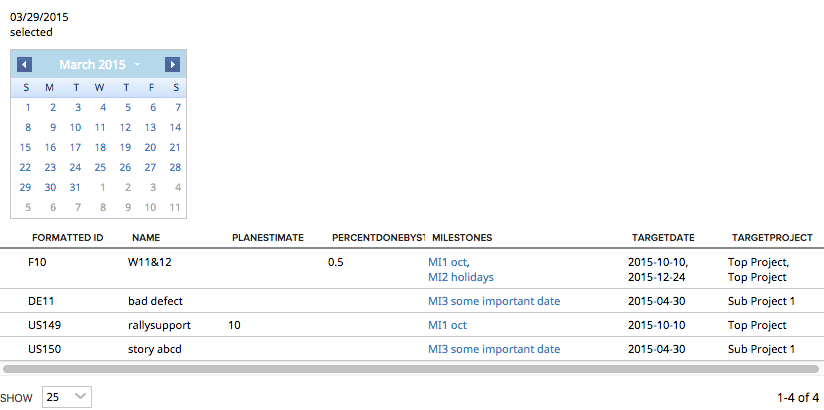
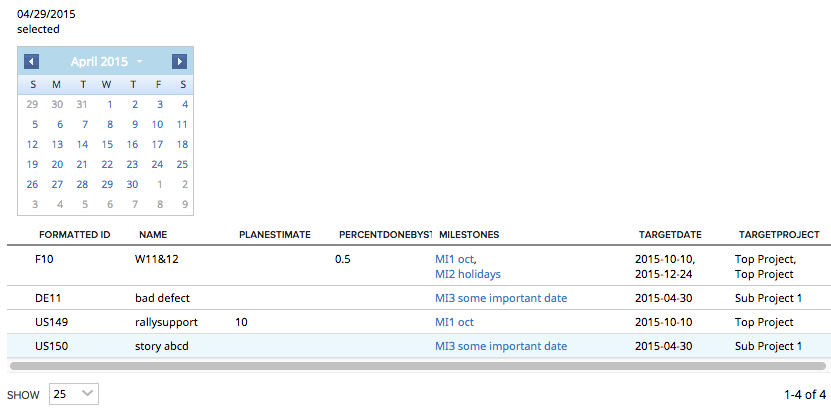
updated Readme

diff --git a/deploy/App-external.html b/deploy/App-external.html
@@ -7,7 +7,7 @@
 
     <script type="text/javascript">
         Rally.onReady(function () {
-                Ext.define("CustomApp",{extend:"Rally.app.App",targetDate:null,launch:function(){this.add({xtype:"component",itemId:"datepick",html:"pick a date to filter Milestones by TargetDate greater than selected date:",width:400,margin:10},{xtype:"rallydatepicker",showToday:!1,contentEl:Ext.ComponentQuery.query("#datepick")[0],margin:10,handler:function(picker,date){this.down("#tc")&&Ext.getCmp("testcases-string").destroy(),this._onDateSelected(date)},scope:this},{xtype:"container",itemId:"gridContainer"})},_onDateSelected:function(date){targetDate=date;var formattedDate=Rally.util.DateTime.formatWithDefault(date,this.getContext());Ext.ComponentQuery.query("#datepick")[0].update(formattedDate+"<br /> selected"),Ext.create("Rally.data.wsapi.artifact.Store",{models:["UserStory","Defect","PortfolioItem/Feature"],fetch:["Name","FormattedID","PlanEstimate","PercentDoneByStoryCount","Milestones"],autoLoad:!0,filters:[{property:"Milestones.ObjectID",operator:"!=",value:null}],listeners:{load:this._onDataLoaded,scope:this}})},_onDataLoaded:function(store,data){console.log("targetDate",Rally.util.DateTime.toIsoString(targetDate,!0));var workItems=[],pendingWorkitems=data.length;_.each(data,function(workitem){var o={FormattedID:workitem.get("FormattedID"),Name:workitem.get("Name"),PlanEstimate:workitem.get("PlanEstimate"),PercentDoneByStoryCount:workitem.get("PercentDoneByStoryCount"),_ref:workitem.get("_ref"),Milestones:[]},milestones=workitem.getCollection("Milestones",{fetch:["Name","FormattedID","TargetDate","TargetProject"],filters:[{property:"TargetDate",operator:">",value:Rally.util.DateTime.toIsoString(targetDate,!0)}]});milestones.load({callback:function(records,operation,success){_.each(records,function(milestone){o.Milestones.push({_ref:milestone.get("_ref"),FormattedID:milestone.get("FormattedID"),Name:milestone.get("Name"),TargetDate:milestone.get("TargetDate"),TargetProject:milestone.get("TargetProject")._refObjectName})},this),--pendingWorkitems,0===pendingWorkitems&&this._makeGrid(workItems)},scope:this}),console.log("o.Milestones.length",o.Milestones.length),workItems.push(o)},this)},_makeGrid:function(workItems){this.down("rallygrid")&&Ext.ComponentQuery.query("#gridContainer")[0].remove(Ext.ComponentQuery.query("#workItemsGrid")[0],!0);var workItemsStore=Ext.create("Rally.data.custom.Store",{data:workItems,remoteSort:!1});this.down("#gridContainer").add({xtype:"rallygrid",itemId:"workItemsGrid",store:workItemsStore,columnCfgs:[{text:"Formatted ID",dataIndex:"FormattedID"},{text:"Name",dataIndex:"Name"},{text:"PlanEstimate",dataIndex:"PlanEstimate"},{text:"PercentDoneByStoryCount",dataIndex:"PercentDoneByStoryCount"},{text:"Milestones",dataIndex:"Milestones",minWidth:200,renderer:function(value){if(value.length>0){var html=[];return _.each(value,function(milestone){html.push('<a href="'+Rally.nav.Manager.getDetailUrl(milestone)+'">'+milestone.FormattedID+" "+milestone.Name+"</a>")}),html.join(",<br> ")}return"no milestones that meet criteria"}},{text:"TargetDate",dataIndex:"Milestones",renderer:function(value){var html=[];return _.each(value,function(milestone){html.push(Rally.util.DateTime.toIsoString(milestone.TargetDate,!0).substring(0,10))}),html.join(",<br> ")}},{text:"TargetProject",dataIndex:"Milestones",renderer:function(value){var html=[];return _.each(value,function(milestone){html.push(milestone.TargetProject)}),html.join(",<br> ")}}]})}});
+                Ext.define("CustomApp",{extend:"Rally.app.App",targetDate:null,launch:function(){this.add({xtype:"component",itemId:"datepick",html:"pick a date to filter Milestones by TargetDate greater than selected date:",width:400,margin:10},{xtype:"rallydatepicker",showToday:!1,contentEl:Ext.ComponentQuery.query("#datepick")[0],margin:10,handler:function(picker,date){this._onDateSelected(date)},scope:this},{xtype:"container",itemId:"gridContainer"})},_onDateSelected:function(date){targetDate=date;var formattedDate=Rally.util.DateTime.formatWithDefault(date,this.getContext());Ext.ComponentQuery.query("#datepick")[0].update(formattedDate+"<br /> selected"),Ext.create("Rally.data.wsapi.artifact.Store",{models:["UserStory","Defect","PortfolioItem/Feature"],fetch:["Name","FormattedID","PlanEstimate","PercentDoneByStoryCount","Milestones"],autoLoad:!0,filters:[{property:"Milestones.ObjectID",operator:"!=",value:null}],listeners:{load:this._onDataLoaded,scope:this}})},_onDataLoaded:function(store,data){console.log("targetDate",Rally.util.DateTime.toIsoString(targetDate,!0));var workItems=[],pendingWorkitems=data.length;_.each(data,function(workitem){var o={FormattedID:workitem.get("FormattedID"),Name:workitem.get("Name"),PlanEstimate:workitem.get("PlanEstimate"),PercentDoneByStoryCount:workitem.get("PercentDoneByStoryCount"),_ref:workitem.get("_ref"),Milestones:[]},milestones=workitem.getCollection("Milestones",{fetch:["Name","FormattedID","TargetDate","TargetProject"],filters:[{property:"TargetDate",operator:">",value:Rally.util.DateTime.toIsoString(targetDate,!0)}]});milestones.load({callback:function(records,operation,success){_.each(records,function(milestone){o.Milestones.push({_ref:milestone.get("_ref"),FormattedID:milestone.get("FormattedID"),Name:milestone.get("Name"),TargetDate:milestone.get("TargetDate"),TargetProject:milestone.get("TargetProject")._refObjectName})},this),--pendingWorkitems,0===pendingWorkitems&&this._makeGrid(workItems)},scope:this}),console.log("o.Milestones.length",o.Milestones.length),workItems.push(o)},this)},_makeGrid:function(workItems){this.down("rallygrid")&&Ext.ComponentQuery.query("#gridContainer")[0].remove(Ext.ComponentQuery.query("#workItemsGrid")[0],!0);var workItemsStore=Ext.create("Rally.data.custom.Store",{data:workItems,remoteSort:!1});this.down("#gridContainer").add({xtype:"rallygrid",itemId:"workItemsGrid",store:workItemsStore,columnCfgs:[{text:"Formatted ID",dataIndex:"FormattedID"},{text:"Name",dataIndex:"Name"},{text:"PlanEstimate",dataIndex:"PlanEstimate"},{text:"PercentDoneByStoryCount",dataIndex:"PercentDoneByStoryCount"},{text:"Milestones",dataIndex:"Milestones",minWidth:200,renderer:function(value){if(value.length>0){var html=[];return _.each(value,function(milestone){html.push('<a href="'+Rally.nav.Manager.getDetailUrl(milestone)+'">'+milestone.FormattedID+" "+milestone.Name+"</a>")}),html.join(",<br> ")}return"no milestones that meet criteria"}},{text:"TargetDate",dataIndex:"Milestones",renderer:function(value){var html=[];return _.each(value,function(milestone){html.push(Rally.util.DateTime.toIsoString(milestone.TargetDate,!0).substring(0,10))}),html.join(",<br> ")}},{text:"TargetProject",dataIndex:"Milestones",renderer:function(value){var html=[];return _.each(value,function(milestone){html.push(milestone.TargetProject)}),html.join(",<br> ")}}]})}});
 
             Rally.launchApp('CustomApp', {
                 name:"Artifacts with Milestones",

diff --git a/deploy/App.html b/deploy/App.html
@@ -7,7 +7,7 @@
 
     <script type="text/javascript">
         Rally.onReady(function () {
-                Ext.define("CustomApp",{extend:"Rally.app.App",targetDate:null,launch:function(){this.add({xtype:"component",itemId:"datepick",html:"pick a date to filter Milestones by TargetDate greater than selected date:",width:400,margin:10},{xtype:"rallydatepicker",showToday:!1,contentEl:Ext.ComponentQuery.query("#datepick")[0],margin:10,handler:function(picker,date){this.down("#tc")&&Ext.getCmp("testcases-string").destroy(),this._onDateSelected(date)},scope:this},{xtype:"container",itemId:"gridContainer"})},_onDateSelected:function(date){targetDate=date;var formattedDate=Rally.util.DateTime.formatWithDefault(date,this.getContext());Ext.ComponentQuery.query("#datepick")[0].update(formattedDate+"<br /> selected"),Ext.create("Rally.data.wsapi.artifact.Store",{models:["UserStory","Defect","PortfolioItem/Feature"],fetch:["Name","FormattedID","PlanEstimate","PercentDoneByStoryCount","Milestones"],autoLoad:!0,filters:[{property:"Milestones.ObjectID",operator:"!=",value:null}],listeners:{load:this._onDataLoaded,scope:this}})},_onDataLoaded:function(store,data){console.log("targetDate",Rally.util.DateTime.toIsoString(targetDate,!0));var workItems=[],pendingWorkitems=data.length;_.each(data,function(workitem){var o={FormattedID:workitem.get("FormattedID"),Name:workitem.get("Name"),PlanEstimate:workitem.get("PlanEstimate"),PercentDoneByStoryCount:workitem.get("PercentDoneByStoryCount"),_ref:workitem.get("_ref"),Milestones:[]},milestones=workitem.getCollection("Milestones",{fetch:["Name","FormattedID","TargetDate","TargetProject"],filters:[{property:"TargetDate",operator:">",value:Rally.util.DateTime.toIsoString(targetDate,!0)}]});milestones.load({callback:function(records,operation,success){_.each(records,function(milestone){o.Milestones.push({_ref:milestone.get("_ref"),FormattedID:milestone.get("FormattedID"),Name:milestone.get("Name"),TargetDate:milestone.get("TargetDate"),TargetProject:milestone.get("TargetProject")._refObjectName})},this),--pendingWorkitems,0===pendingWorkitems&&this._makeGrid(workItems)},scope:this}),console.log("o.Milestones.length",o.Milestones.length),workItems.push(o)},this)},_makeGrid:function(workItems){this.down("rallygrid")&&Ext.ComponentQuery.query("#gridContainer")[0].remove(Ext.ComponentQuery.query("#workItemsGrid")[0],!0);var workItemsStore=Ext.create("Rally.data.custom.Store",{data:workItems,remoteSort:!1});this.down("#gridContainer").add({xtype:"rallygrid",itemId:"workItemsGrid",store:workItemsStore,columnCfgs:[{text:"Formatted ID",dataIndex:"FormattedID"},{text:"Name",dataIndex:"Name"},{text:"PlanEstimate",dataIndex:"PlanEstimate"},{text:"PercentDoneByStoryCount",dataIndex:"PercentDoneByStoryCount"},{text:"Milestones",dataIndex:"Milestones",minWidth:200,renderer:function(value){if(value.length>0){var html=[];return _.each(value,function(milestone){html.push('<a href="'+Rally.nav.Manager.getDetailUrl(milestone)+'">'+milestone.FormattedID+" "+milestone.Name+"</a>")}),html.join(",<br> ")}return"no milestones that meet criteria"}},{text:"TargetDate",dataIndex:"Milestones",renderer:function(value){var html=[];return _.each(value,function(milestone){html.push(Rally.util.DateTime.toIsoString(milestone.TargetDate,!0).substring(0,10))}),html.join(",<br> ")}},{text:"TargetProject",dataIndex:"Milestones",renderer:function(value){var html=[];return _.each(value,function(milestone){html.push(milestone.TargetProject)}),html.join(",<br> ")}}]})}});
+                Ext.define("CustomApp",{extend:"Rally.app.App",targetDate:null,launch:function(){this.add({xtype:"component",itemId:"datepick",html:"pick a date to filter Milestones by TargetDate greater than selected date:",width:400,margin:10},{xtype:"rallydatepicker",showToday:!1,contentEl:Ext.ComponentQuery.query("#datepick")[0],margin:10,handler:function(picker,date){this._onDateSelected(date)},scope:this},{xtype:"container",itemId:"gridContainer"})},_onDateSelected:function(date){targetDate=date;var formattedDate=Rally.util.DateTime.formatWithDefault(date,this.getContext());Ext.ComponentQuery.query("#datepick")[0].update(formattedDate+"<br /> selected"),Ext.create("Rally.data.wsapi.artifact.Store",{models:["UserStory","Defect","PortfolioItem/Feature"],fetch:["Name","FormattedID","PlanEstimate","PercentDoneByStoryCount","Milestones"],autoLoad:!0,filters:[{property:"Milestones.ObjectID",operator:"!=",value:null}],listeners:{load:this._onDataLoaded,scope:this}})},_onDataLoaded:function(store,data){console.log("targetDate",Rally.util.DateTime.toIsoString(targetDate,!0));var workItems=[],pendingWorkitems=data.length;_.each(data,function(workitem){var o={FormattedID:workitem.get("FormattedID"),Name:workitem.get("Name"),PlanEstimate:workitem.get("PlanEstimate"),PercentDoneByStoryCount:workitem.get("PercentDoneByStoryCount"),_ref:workitem.get("_ref"),Milestones:[]},milestones=workitem.getCollection("Milestones",{fetch:["Name","FormattedID","TargetDate","TargetProject"],filters:[{property:"TargetDate",operator:">",value:Rally.util.DateTime.toIsoString(targetDate,!0)}]});milestones.load({callback:function(records,operation,success){_.each(records,function(milestone){o.Milestones.push({_ref:milestone.get("_ref"),FormattedID:milestone.get("FormattedID"),Name:milestone.get("Name"),TargetDate:milestone.get("TargetDate"),TargetProject:milestone.get("TargetProject")._refObjectName})},this),--pendingWorkitems,0===pendingWorkitems&&this._makeGrid(workItems)},scope:this}),console.log("o.Milestones.length",o.Milestones.length),workItems.push(o)},this)},_makeGrid:function(workItems){this.down("rallygrid")&&Ext.ComponentQuery.query("#gridContainer")[0].remove(Ext.ComponentQuery.query("#workItemsGrid")[0],!0);var workItemsStore=Ext.create("Rally.data.custom.Store",{data:workItems,remoteSort:!1});this.down("#gridContainer").add({xtype:"rallygrid",itemId:"workItemsGrid",store:workItemsStore,columnCfgs:[{text:"Formatted ID",dataIndex:"FormattedID"},{text:"Name",dataIndex:"Name"},{text:"PlanEstimate",dataIndex:"PlanEstimate"},{text:"PercentDoneByStoryCount",dataIndex:"PercentDoneByStoryCount"},{text:"Milestones",dataIndex:"Milestones",minWidth:200,renderer:function(value){if(value.length>0){var html=[];return _.each(value,function(milestone){html.push('<a href="'+Rally.nav.Manager.getDetailUrl(milestone)+'">'+milestone.FormattedID+" "+milestone.Name+"</a>")}),html.join(",<br> ")}return"no milestones that meet criteria"}},{text:"TargetDate",dataIndex:"Milestones",renderer:function(value){var html=[];return _.each(value,function(milestone){html.push(Rally.util.DateTime.toIsoString(milestone.TargetDate,!0).substring(0,10))}),html.join(",<br> ")}},{text:"TargetProject",dataIndex:"Milestones",renderer:function(value){var html=[];return _.each(value,function(milestone){html.push(milestone.TargetProject)}),html.join(",<br> ")}}]})}});
 
             Rally.launchApp('CustomApp', {
                 name:"Artifacts with Milestones",

diff --git a/App.js b/App.js
@@ -15,9 +15,6 @@ Ext.define('CustomApp', {
             contentEl: Ext.ComponentQuery.query('#datepick')[0],
             margin: 10,
             handler: function(picker, date) {
-                if(this.down('#tc')) {
-                    Ext.getCmp('testcases-string').destroy();
-                }
                 this._onDateSelected(date);
             },
             scope:this

diff --git a/deploy/App-uncompressed.html b/deploy/App-uncompressed.html
@@ -24,9 +24,6 @@
             contentEl: Ext.ComponentQuery.query('#datepick')[0],
             margin: 10,
             handler: function(picker, date) {
-                if(this.down('#tc')) {
-                    Ext.getCmp('testcases-string').destroy();
-                }
                 this._onDateSelected(date);
             },
             scope:this

diff --git a/README.md b/README.md
@@ -3,10 +3,18 @@ Artifacts with Milestones
 
 ## Overview
 This app example shows how stitch data of artifacts and related milestones together and pass a custom json to [Rally.data.wsapi.artifact.Store ](https://help.rallydev.com/apps/2.0/doc/#!/api/Rally.data.wsapi.artifact.Store)
-Artifacts are filtered by the presence of Milestones.
-Milestones further filtered by TargetDate.
+
+Artifacts are filtered by the presence of Milestones:
+
+`{property: 'Milestones.ObjectID',operator: '!=',value: null}`
+
+Milestones further filtered by TargetDate selected in the date picker.
 
 ![](pic1.png)
+
+
+pick a date a day earlier, and the milestone that was filtered out in the previous screenshot is now included:
+
 
 ![](pic2.png)
 
